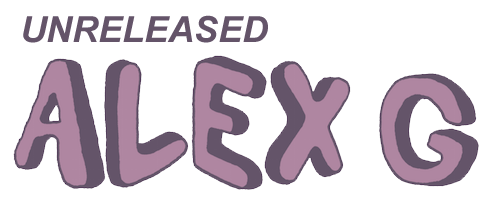
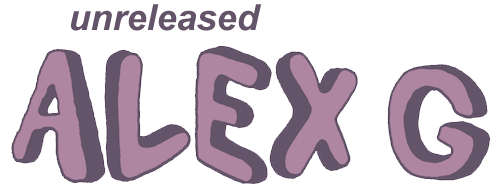
zxcczx

diff --git a/about.html b/about.html
@@ -9,8 +9,8 @@
   </head>
   <body>
     <div id="wrapper">
-      <img id="header-img" src="images/alexg.png">
       <div id="nav">
+        <img id="header-img" src="images/alexg.png"><br>
         <a href="index.html">home</a> /
         <a href="news.html">news</a> /
         <a href="about.html">about</a> /
@@ -18,21 +18,21 @@
       </div>
       <h3>about us</h3>
       <p>
-        this website contains stuff alex never released in public because he didn't want to or didn't care or lost it or whatever. most of compilations in here are not official except Salt and C-Sides which alex sold on his tours. tracks were found mostly on youtube and myspace, some of them were given by alex friends. a bunch of tracks are of skin cells but renamed<br><br>
+        This website has stuff Alex never released in public because he didn't want to or didn't care or lost it or whatever. Most of compilations in here are not official except Salt and C-Sides which Alex sold on his tours. Tracks were found by friends and fans. A bunch of tracks are of skin cells but renamed<br><br>
 
-        <strong>special snowflakes:</strong><br>
+        <strong>Hall of fame:</strong><br>
         block perce the alex g prophet (his <a href="https://www.youtube.com/channel/UC29Ur_xR7fjfZzbZuOEMv_Q" target="_blank">channel</a>)<br>
         cev the unreleasedalexg main man<br>
-        oilage the best bootlegger<br>
-        stacheroni the brite boy<br>
-        bobby the wicked boy<br>
+        oilage the first bootlegger<br>
         henoheno the henoheno<br>
+        bobby the wicked boy<br>
+        stacheroni the brite boy<br>
         vanellope the bootlegger<br>
         cam the weedman<br>
         musicman32 the musicman32 himself<br>
-        also vivian, daniel, jack, dryeyedboy, adron, vince and annie and all the other cool kids<br><br>
+        also vivian, daniel, jack, maddie, adron, vince and annie and all the other cool kids<br><br>
 
-        we are all hanging out on <a href="https://discord.gg/bWbwnRC" target="_blank">this discord</a> with a LOT of other cool people. come hit us up!<br><br><br>
+        We are all hanging out on <a href="https://discord.gg/bWbwnRC" target="_blank">this discord</a> with a LOT of other cool people. Come hit us up!<br><br><br>
       </p>
     </div>
   </body>

diff --git a/news.html b/news.html
@@ -7,13 +7,12 @@
 
     <style>
       p a{color: #993064;border-bottom: 2px solid #8c3d64;}
-      p b{font-size:11px;}
     </style>
   </head>
   <body>
     <div id="wrapper">
-      <img id="header-img" src="images/alexg.png">
       <div id="nav">
+        <img id="header-img" src="images/alexg.png"><br>
         <a href="index.html">home</a> /
         <a href="news.html">news</a> /
         <a href="about.html">about</a> /
@@ -25,10 +24,10 @@
         Site update and new live sets: Live at The Headroom, Live in the Hive, At Daytrotter Studio.<br><br>
 
         <b>may 26, 2018</b><br>
-        added silent barn, golden tea and at knitting live sets<br><br>
+        Added silent barn, golden tea and at knitting live sets<br><br>
 
         <b>may 20, 2018</b><br>
-        new site is up<br><br><br>
+        New site is up<br><br><br>
       </p>
     </div>
   </body>

diff --git a/styles.css b/styles.css
@@ -31,18 +31,18 @@ a:hover {
 }
 
 #header-img {
-  margin: 25px 0 10px 0;
-  width: 280px;
+  margin: 15px 0 10px 0;
+  width: 250px;
   height: auto;
 }
 
 #nav {
   color: #b2afa4;
-  margin-bottom: 45px;
+  margin-bottom: 35px;
 }
 
 #nav a {
-  margin: 0 3px 0 3px;
+  margin: 0 9px 0 9px;
 }
 
 /* album grid styles */
@@ -86,10 +86,9 @@ a:hover {
 }
 
 .album-page-grid a {
-  color: #af6e8e;
   font-size: 15px;
 }
 
 .album-page-grid a:hover {color:#993064}
 .album-page-grid p {line-height:24px;}
-.album-page-grid h1 {margin-top:0;font-weight:normal;}
+.album-page-grid h1 {margin-top:0;font-weight:normal;font-size:28px;}

diff --git a/albums/99999.html b/albums/99999.html
@@ -8,8 +8,8 @@
   </head>
   <body>
     <div id="wrapper">
-      <img id="header-img" src="../images/alexg.png">
       <div id="nav">
+        <img id="header-img" src="../images/alexg.png"><br>
         <a href="../index.html">home</a> /
         <a href="../news.html">news</a> /
         <a href="../about.html">about</a> /

diff --git a/albums/c-sides.html b/albums/c-sides.html
@@ -8,8 +8,8 @@
   </head>
   <body>
     <div id="wrapper">
-      <img id="header-img" src="../images/alexg.png">
       <div id="nav">
+        <img id="header-img" src="../images/alexg.png"><br>
         <a href="../index.html">home</a> /
         <a href="../news.html">news</a> /
         <a href="../about.html">about</a> /

diff --git a/albums/compilation.html b/albums/compilation.html
@@ -8,8 +8,8 @@
   </head>
   <body>
     <div id="wrapper">
-      <img id="header-img" src="../images/alexg.png">
       <div id="nav">
+        <img id="header-img" src="../images/alexg.png"><br>
         <a href="../index.html">home</a> /
         <a href="../news.html">news</a> /
         <a href="../about.html">about</a> /

diff --git a/albums/compilation2.html b/albums/compilation2.html
@@ -8,8 +8,8 @@
   </head>
   <body>
     <div id="wrapper">
-      <img id="header-img" src="../images/alexg.png">
       <div id="nav">
+        <img id="header-img" src="../images/alexg.png"><br>
         <a href="../index.html">home</a> /
         <a href="../news.html">news</a> /
         <a href="../about.html">about</a> /

diff --git a/albums/covers.html b/albums/covers.html
@@ -8,8 +8,8 @@
   </head>
   <body>
     <div id="wrapper">
-      <img id="header-img" src="../images/alexg.png">
       <div id="nav">
+        <img id="header-img" src="../images/alexg.png"><br>
         <a href="../index.html">home</a> /
         <a href="../news.html">news</a> /
         <a href="../about.html">about</a> /

diff --git a/albums/cross.html b/albums/cross.html
@@ -8,8 +8,8 @@
   </head>
   <body>
     <div id="wrapper">
-      <img id="header-img" src="../images/alexg.png">
       <div id="nav">
+        <img id="header-img" src="../images/alexg.png"><br>
         <a href="../index.html">home</a> /
         <a href="../news.html">news</a> /
         <a href="../about.html">about</a> /

diff --git a/albums/demos.html b/albums/demos.html
@@ -8,8 +8,8 @@
   </head>
   <body>
     <div id="wrapper">
-      <img id="header-img" src="../images/alexg.png">
       <div id="nav">
+        <img id="header-img" src="../images/alexg.png"><br>
         <a href="../index.html">home</a> /
         <a href="../news.html">news</a> /
         <a href="../about.html">about</a> /

diff --git a/albums/monsterhead.html b/albums/monsterhead.html
@@ -8,8 +8,8 @@
   </head>
   <body>
     <div id="wrapper">
-      <img id="header-img" src="../images/alexg.png">
       <div id="nav">
+        <img id="header-img" src="../images/alexg.png"><br>
         <a href="../index.html">home</a> /
         <a href="../news.html">news</a> /
         <a href="../about.html">about</a> /

diff --git a/albums/new.html b/albums/new.html
@@ -8,8 +8,8 @@
   </head>
   <body>
     <div id="wrapper">
-      <img id="header-img" src="../images/alexg.png">
       <div id="nav">
+        <img id="header-img" src="../images/alexg.png"><br>
         <a href="../index.html">home</a> /
         <a href="../news.html">news</a> /
         <a href="../about.html">about</a> /
